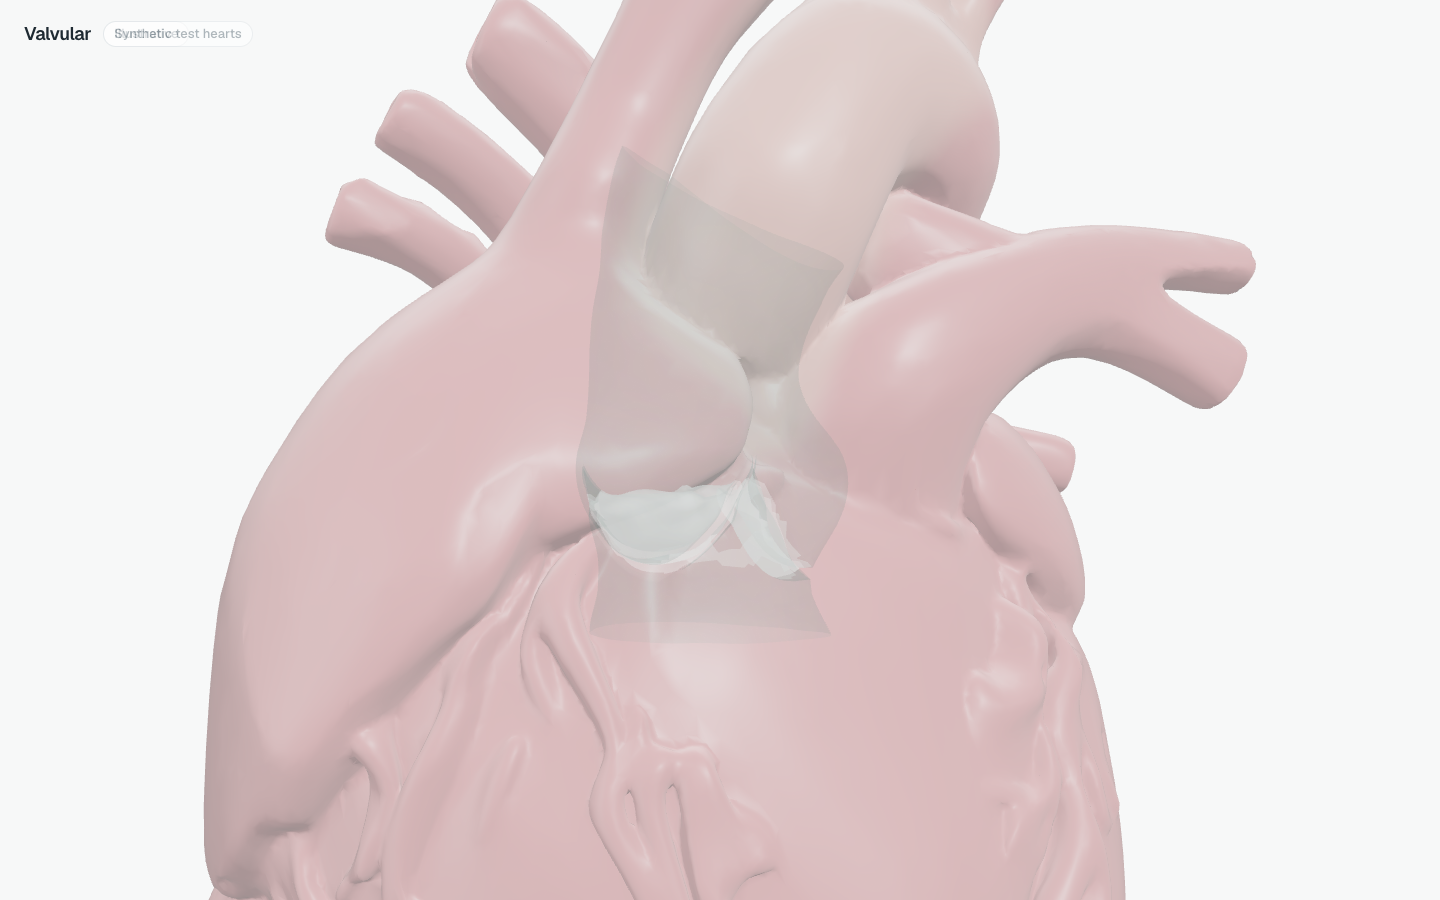
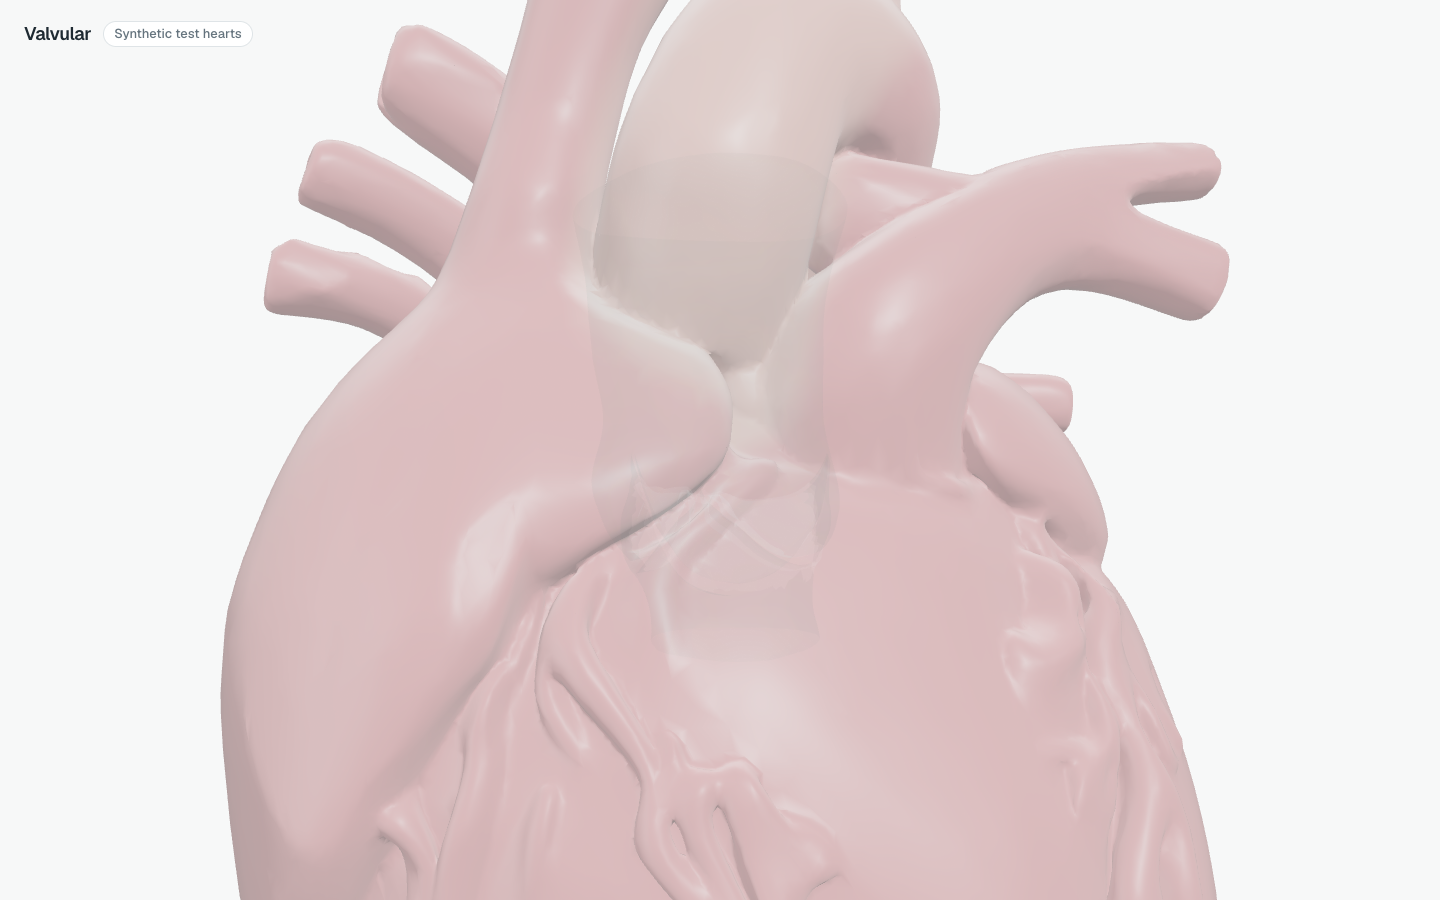
Round 3 polish: label swap, root axis and fade curve, leaflet brightness, root shadow, heart turn, closer camera

diff --git a/src/components/heart-scene/index.tsx b/src/components/heart-scene/index.tsx
@@ -1,7 +1,7 @@
 "use client";
 
 import { Suspense, useEffect, useRef, useState } from "react";
-import { Canvas, useFrame } from "@react-three/fiber";
+import { Canvas, useFrame, useThree } from "@react-three/fiber";
 import {
   AdaptiveDpr,
   ContactShadows,
@@ -11,34 +11,40 @@ import {
 } from "@react-three/drei";
 import type { Group, Mesh, MeshBasicMaterial } from "three";
 import { ROOT_LIFT, ROOT_SIZE, RootView } from "@/components/root-view";
-import { subscribeStage } from "@/state/stage";
 import { HeartModel } from "./heart-model";
 import { OpeningUi } from "./opening-ui";
 import { attachStageInput } from "./stage-input";
 import { StageDriver } from "./stage-driver";
 import type { Visual } from "./stage-math";
 
-const ROOT_SHADOW_OPACITY = 0.2;
+const ROOT_SHADOW_OPACITY = 0.14;
+const SHADOW_FADE_SECONDS = 0.6;
 
 function RootShadow({ visual }: { visual: Visual }) {
   const group = useRef<Group>(null);
+  const fade = useRef(0);
   const [mounted, setMounted] = useState(false);
+  const { invalidate } = useThree();
 
-  // Baked once, after the heart is hidden, so the heart never casts into it.
-  useEffect(
-    () =>
-      subscribeStage(() => {
-        if (visual.heart === 0) setMounted(true);
-      }),
-    [visual],
-  );
-
-  useFrame(() => {
+  // Baked once, after the heart is hidden, so the heart never casts into it. This holds on any path,
+  // including a direct load of the workspace.
+  useFrame((_, delta) => {
+    if (!mounted) {
+      if (visual.heart === 0) setMounted(true);
+      return;
+    }
+    fade.current = Math.min(1, fade.current + delta / SHADOW_FADE_SECONDS);
+    const opacity = ROOT_SHADOW_OPACITY * visual.root * fade.current;
     group.current?.traverse((object) => {
       const material = (object as Mesh).material as MeshBasicMaterial | undefined;
-      if (material?.isMeshBasicMaterial) material.opacity = ROOT_SHADOW_OPACITY * visual.root;
+      if (material?.isMeshBasicMaterial) material.opacity = opacity;
     });
+    if (fade.current < 1) invalidate();
   });
+
+  useEffect(() => {
+    if (mounted) invalidate();
+  }, [mounted, invalidate]);
 
   if (!mounted) return null;
   return (
@@ -47,7 +53,7 @@ function RootShadow({ visual }: { visual: Visual }) {
         frames={1}
         position={[0, ROOT_LIFT - ROOT_SIZE / 2, 0]}
         opacity={ROOT_SHADOW_OPACITY}
-        blur={1.8}
+        blur={2.4}
         far={1.5}
         scale={7}
       />

diff --git a/src/components/root-view/index.tsx b/src/components/root-view/index.tsx
@@ -20,6 +20,9 @@ export const ROOT_URL = "/fixtures/root-sample.glb";
 export const ROOT_SIZE = 2.7;
 export const ROOT_LIFT = 0.15;
 const WALL_OPACITY = 0.16;
+const LEAFLET_FLOOR = 0.03;
+// The sample mesh has a flat step in its rim, so land on the side where it faces away.
+const LANDING_YAW = -1.4;
 
 function createWallMaterial(side: typeof BackSide | typeof FrontSide) {
   return new MeshPhysicalMaterial({
@@ -37,10 +40,10 @@ function createWallMaterial(side: typeof BackSide | typeof FrontSide) {
 
 function createLeafletMaterial() {
   return new MeshPhysicalMaterial({
-    color: "#fbfaf7",
-    emissive: "#fbfaf7",
-    emissiveIntensity: 0.5,
-    roughness: 0.6,
+    color: "#ffffff",
+    emissive: "#ffffff",
+    emissiveIntensity: 0.8,
+    roughness: 0.55,
     side: DoubleSide,
   });
 }
@@ -88,7 +91,7 @@ function buildRoot(source: Object3D) {
       clone.visible = opacity > 0;
       for (const material of wallMaterials) material.opacity = WALL_OPACITY * opacity;
       const solid = opacity >= 1;
-      leafletMaterial.opacity = opacity;
+      leafletMaterial.opacity = opacity > 0 ? LEAFLET_FLOOR + (1 - LEAFLET_FLOOR) * opacity ** 2 : 0;
       if (leafletMaterial.transparent === solid) {
         leafletMaterial.transparent = !solid;
         leafletMaterial.depthWrite = solid;
@@ -110,9 +113,11 @@ export function RootView({ visual }: { visual: { root: number; heart: number } }
   useFrame(() => rig.setOpacity(visual.root, visual.heart));
 
   return (
-    <group position={[0, ROOT_LIFT, 0]} rotation={[0, 0, Math.PI / 2]}>
-      <primitive object={rig.root} />
-      <ValveModel />
+    <group position={[0, ROOT_LIFT, 0]} rotation={[0, LANDING_YAW, 0]}>
+      <group rotation={[0, 0, Math.PI / 2]}>
+        <primitive object={rig.root} />
+        <ValveModel />
+      </group>
     </group>
   );
 }

diff --git a/src/components/heart-scene/opening-ui.tsx b/src/components/heart-scene/opening-ui.tsx
@@ -4,22 +4,23 @@ import { useEffect, useRef } from "react";
 import { ChevronDown } from "lucide-react";
 import { Button } from "@/components/ui/button";
 import { getStageProgress, subscribeStage } from "@/state/stage";
-import { smoothstep, visualAt } from "./stage-math";
-import { prefersReducedMotion, zoomToValve } from "./stage-input";
+import { smoothstep } from "./stage-math";
+import { zoomToValve } from "./stage-input";
 
 const GONE_BY = 0.15;
+const LABEL_SWAP_AT = 0.5;
 
-function fadeLabel(label: Element, opacity: number) {
+function showLabel(label: Element, shown: boolean) {
   const style = (label as HTMLElement).style;
-  style.opacity = String(opacity);
-  style.visibility = opacity > 0 ? "visible" : "hidden";
+  style.opacity = shown ? "1" : "0";
+  style.visibility = shown ? "visible" : "hidden";
 }
 
-// "Illustrative" belongs to the heart only, so the header label swaps as the heart gives way.
+// "Illustrative" belongs to the heart only. The labels swap with no overlap, so one is always readable.
 function syncHeaderLabels(progress: number) {
-  const { heart, root } = visualAt(progress, prefersReducedMotion());
-  document.querySelectorAll("header .stage-opening").forEach((label) => fadeLabel(label, heart));
-  document.querySelectorAll("header .stage-panel").forEach((label) => fadeLabel(label, root));
+  const onHeart = progress < LABEL_SWAP_AT;
+  document.querySelectorAll("header .stage-opening").forEach((label) => showLabel(label, onHeart));
+  document.querySelectorAll("header .stage-panel").forEach((label) => showLabel(label, !onHeart));
 }
 
 export function OpeningUi() {

diff --git a/src/components/heart-scene/stage-math.ts b/src/components/heart-scene/stage-math.ts
@@ -6,6 +6,9 @@ export const smoothstep = (from: number, to: number, value: number) =>
 export const FADE_START = 0.35;
 export const FADE_END = 0.65;
 
+// The root arrives on a slower curve, so it stays faint until the heart is mostly gone.
+const ROOT_EASE = 2.5;
+
 export type Visual = { heart: number; root: number; motion: number };
 
 export function visualAt(progress: number, reduced: boolean): Visual {
@@ -17,7 +20,7 @@ export function visualAt(progress: number, reduced: boolean): Visual {
     };
   }
   const fade = smoothstep(FADE_START, FADE_END, progress);
-  return { heart: 1 - fade, root: fade, motion: 1 - smoothstep(0, 0.6, progress) };
+  return { heart: 1 - fade, root: Math.pow(fade, ROOT_EASE), motion: 1 - smoothstep(0, 0.6, progress) };
 }
 
 const CAMERA_EASE = 3;
@@ -37,7 +40,7 @@ const UP = new Vector3(0, 1, 0);
 
 export const HEART_SCALE = 9.2;
 export const VALVE_MARKER = new Vector3(0.08, 0, 0.03);
-const VALVE_AXIS = new Vector3(0.024, 0.932, 0.361).normalize();
+const VALVE_AXIS = new Vector3(0.024, 0.932, 0.18).normalize();
 const VALVE_WORLD = new Vector3(0, -0.53, 0);
 
 // Model +X is the front. Yaw it to the camera, then tilt the valve axis to world up.
@@ -58,6 +61,6 @@ export const ROOT_POSE = {
   target: new Vector3(0, 0, 0),
 };
 export const HEART_POSE = {
-  position: HEART_PLACEMENT.position.clone().add(new Vector3(0, -0.75, 21.5)),
+  position: HEART_PLACEMENT.position.clone().add(new Vector3(0, -0.75, 19)),
   target: HEART_PLACEMENT.position.clone().add(new Vector3(0, -0.75, 0)),
 };

diff --git a/src/components/heart-scene/heart-model.tsx b/src/components/heart-scene/heart-model.tsx
@@ -80,7 +80,7 @@ function createHeartRig(scene: Object3D) {
       const seconds = performance.now() / 1000;
       const pulse = Math.pow(Math.sin(Math.PI * ((seconds * BEATS_PER_SECOND) % 1)), 6);
       heart.scale.setScalar(1 + BEAT_SIZE * pulse * visual.motion);
-      heart.rotation.y = TURN_RADIANS * Math.sin(seconds * TURN_SPEED) * visual.motion;
+      heart.rotation.y = -TURN_RADIANS * Math.sin(seconds * TURN_SPEED) * visual.motion;
 
       const nowFading = visual.heart < 1;
       if (nowFading !== fading) {

diff --git a/src/components/heart-scene/stage-driver.tsx b/src/components/heart-scene/stage-driver.tsx
@@ -86,8 +86,8 @@ export function StageDriver({ visual }: { visual: Visual }) {
     impl.mouseButtons.right = ACTION.NONE;
     impl.touches.two = ACTION.NONE;
     impl.touches.three = ACTION.NONE;
-    impl.minPolarAngle = 0.6;
-    impl.maxPolarAngle = Math.PI - 0.6;
+    impl.minPolarAngle = 0.9;
+    impl.maxPolarAngle = Math.PI - 0.9;
     impl.smoothTime = 0.2;
     impl.draggingSmoothTime = 0.08;
   }, []);

diff --git a/docs/plans/req-3.md b/docs/plans/req-3.md
@@ -130,3 +130,10 @@ Don't touch `page.tsx`, `tokens.css`, `stage.ts` or `stage-gate.tsx`. If one see
 - **Aorta tint:** the salvaged colours haven't been reviewed on screen. RES-3's first test colour was barely visible, so check this at M1 and change only the constants in `build-heart.ts`.
 - **Re-renders per frame:** `useCentreInFreeArea` and `StageGate` re-render on every progress change. Keep the heart and its memoised geometry out of those paths, and read progress in `useFrame` with `getStageProgress`, not the hook.
 - **Polish time:** this is the centrepiece, but tests come first. Get M0 to M6 green and committed, then polish for the auditor. Don't polish between milestones.
+
+## Round 3 decisions
+
+- **Lighting:** the scene keeps drei `Environment` built from `Lightformer`s rather than a local HDRI file. No licensed HDRI is in the repo, the Lightformer set costs no download and no asset licence, and one shared setup lights the heart and root. Swap in an HDRI only if the highlights need it.
+- **Heart shadow:** the heart keeps a gradient sprite, not `ContactShadows`. The heart beats and turns, so a shadow baked once with `frames={1}` would be stale straight away. The root uses `ContactShadows` with `frames={1}` because it is static.
+- **Root axis and landing:** `VALVE_AXIS` is tilted about 10 degrees (z 0.361 to 0.18), inside the plan's 15 degree tolerance, so the root continues along the tinted aorta at 0.4 to 0.6. The root lands rotated 1.4 rad about the vertical, because the flat step in the sample mesh rim is in the source mesh and faces away from that view.
+- **Not done:** aorta tint seam softening in `build-heart.ts`, and the ragged white rim where leaflets meet the wall.
